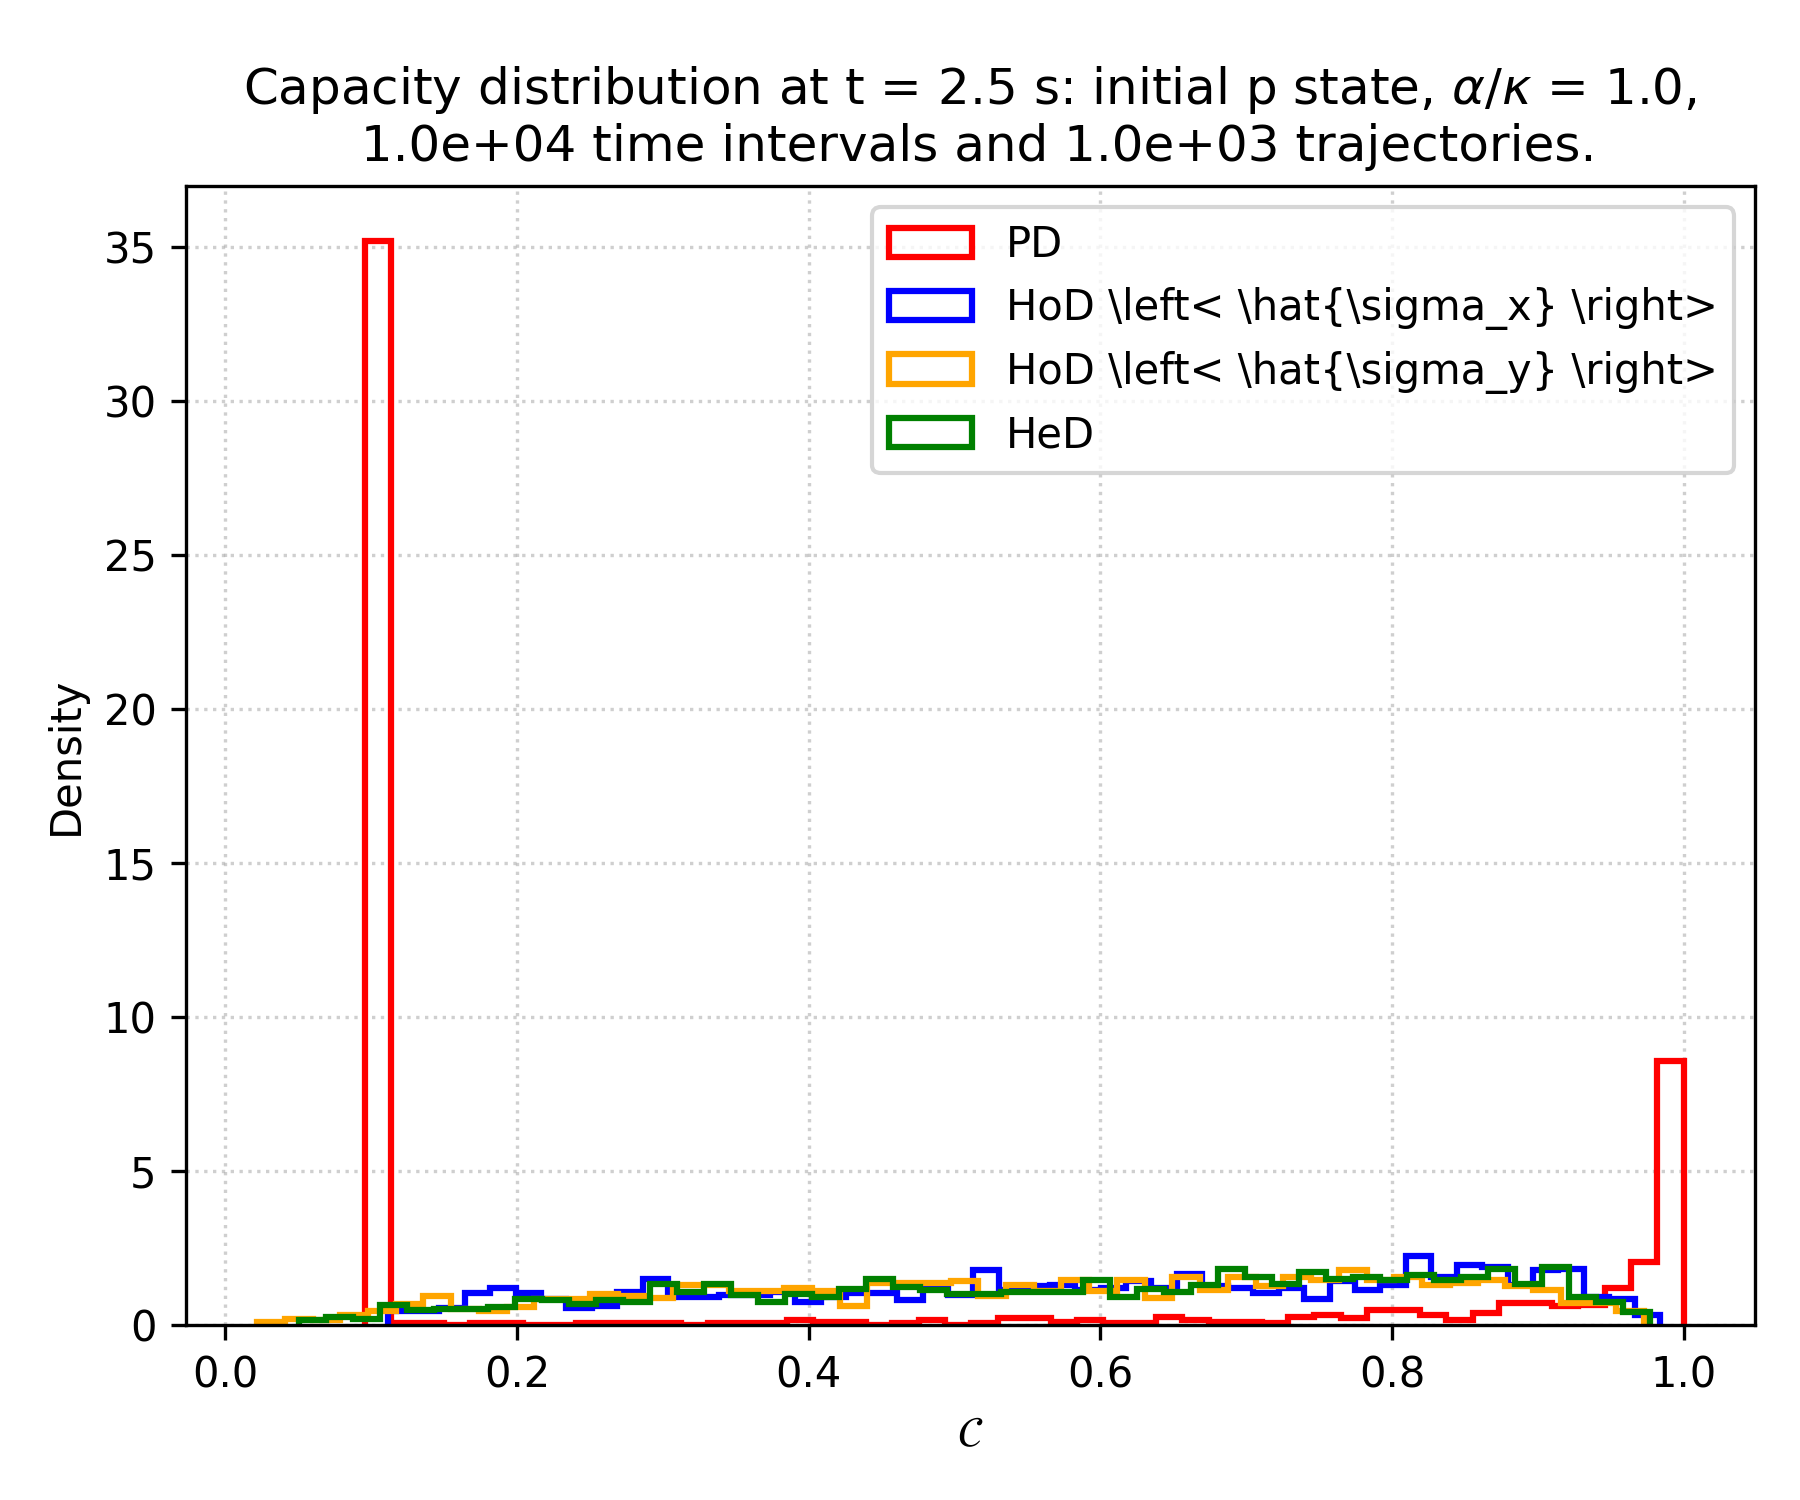
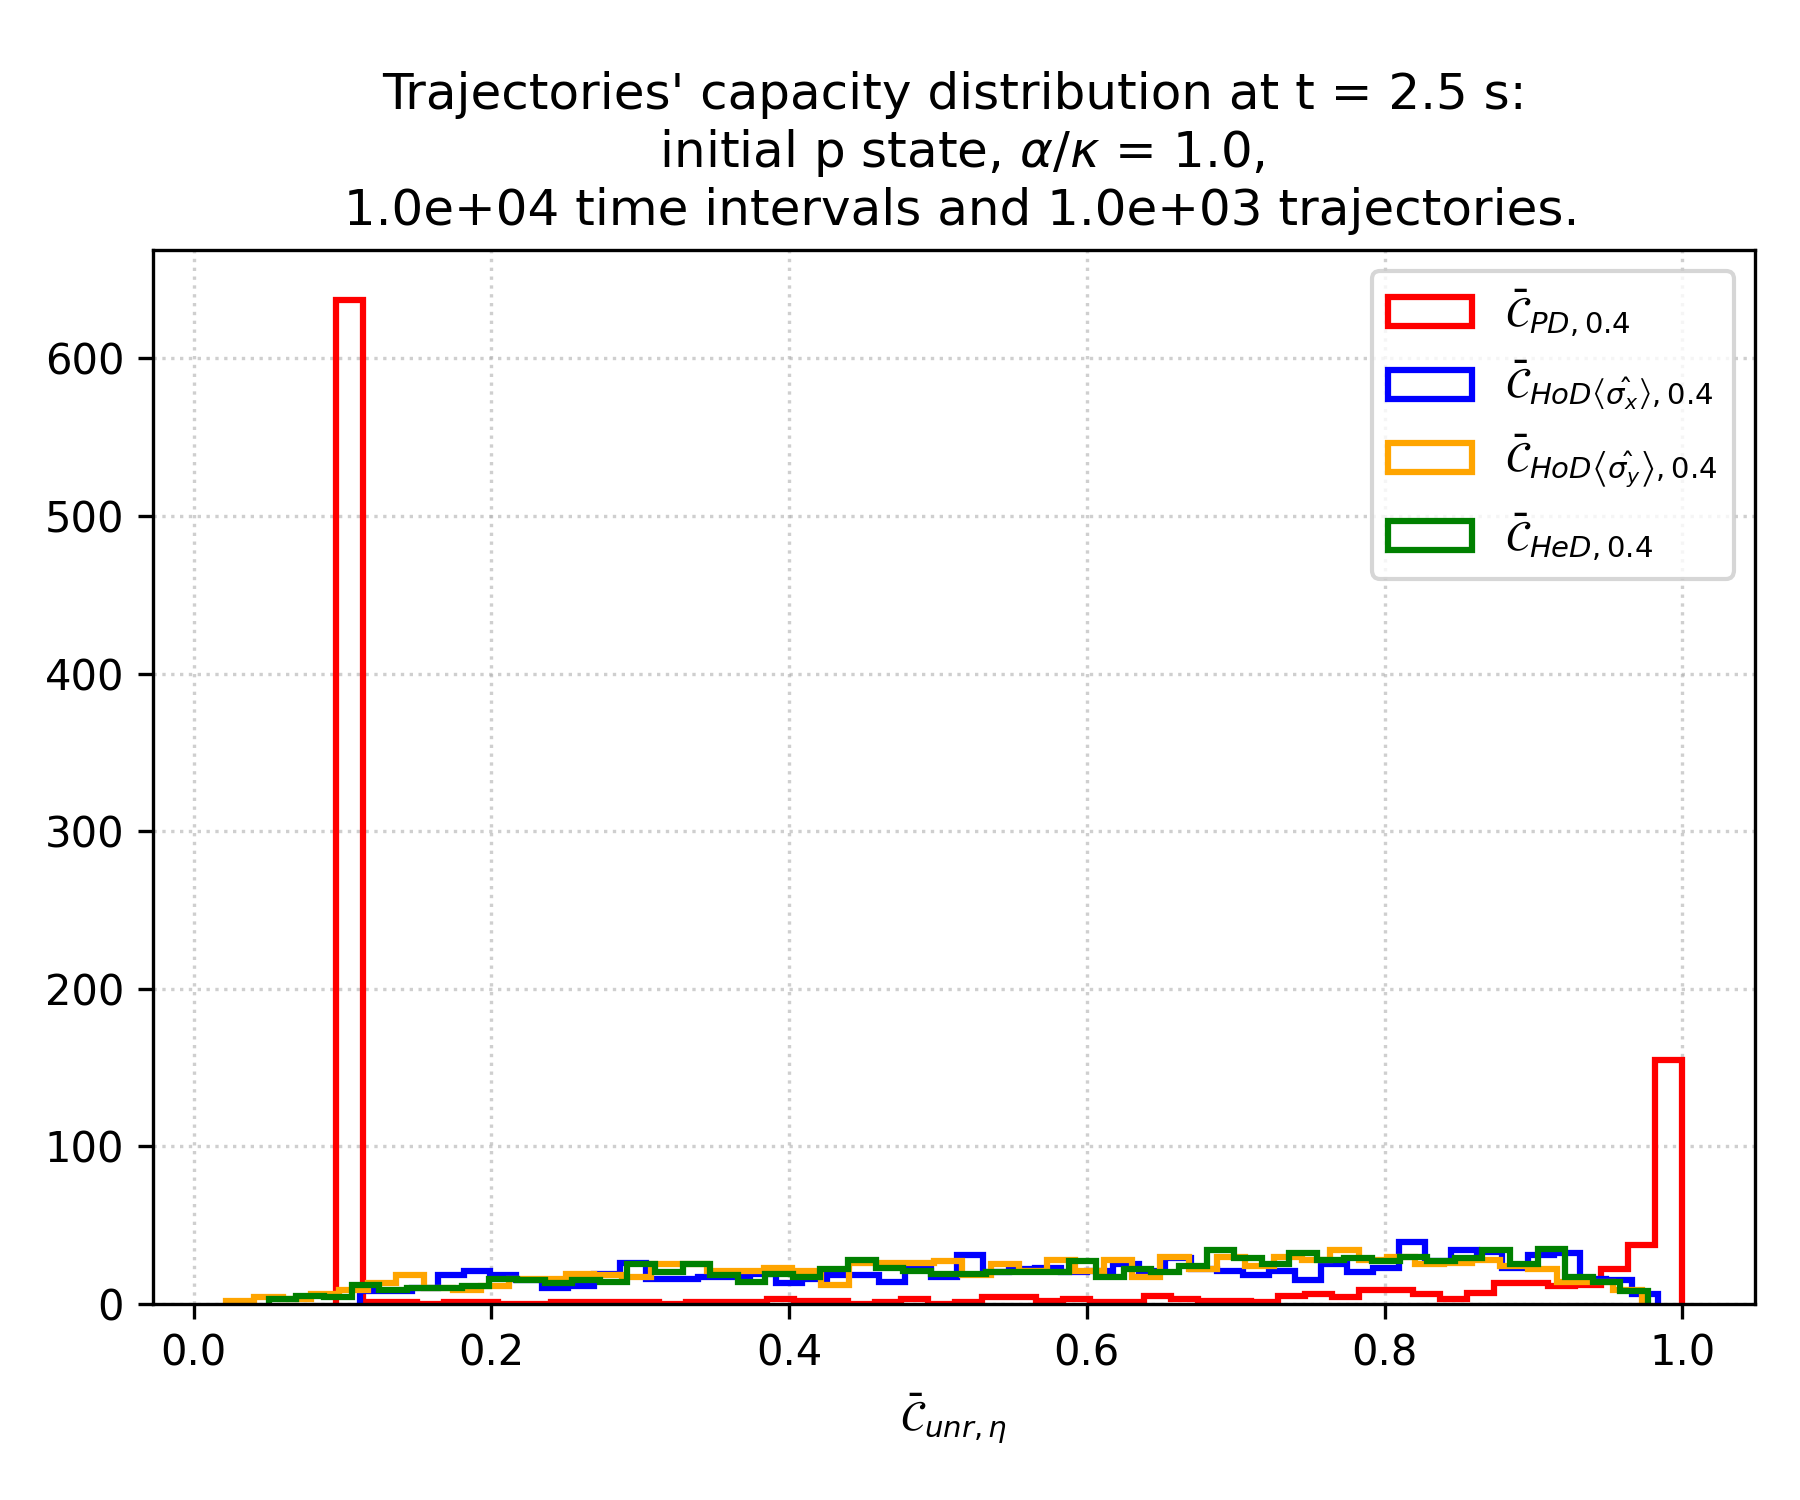
update

diff --git a/code/data_analysis.py b/code/data_analysis.py
@@ -75,7 +75,6 @@ def plot_mean_erg():
     ax.grid(True, linestyle = ':', alpha = 0.6)
     ax.set_ylim(0, 0.3) if (instate == "m" and alpha_over_kappa == 0.4 and eta == 1.0) else None
     ax.legend(loc = "upper right" if (instate == "p" and alpha_over_kappa == 1.0 and eta == 0.4) else "lower right", ncol = 2)
-    # ax.legend(loc = "lower right", ncol = 2)
 
     fig.suptitle(
             f"Mean values (erg): initial pure state, "  r"$\alpha / \kappa$" f" = {alpha_over_kappa},\n" f"{NUMBER_OF_TIMEINTERVALS : .1e} time intervals and{NUMBER_OF_TRAJECTORIES : .1e} trajectories."
@@ -350,12 +349,12 @@ def plot_histograms():
                 histtype = "step",
                 linewidth = 1.5,
                 color = unr_colors[j],
-                label = unr_labels[j],
-                density = True,
+                label = r"$\bar{\epsilon}_{" + unr_labels[j] + ", " + str(eta) + r"}$",
+                # density = True,
             )
-        ax.set_title(f"Ergotropy distribution at t = {t} s: initial " + instate + " state, "  r"$\alpha / \kappa$" f" = {alpha_over_kappa},\n" f"{NUMBER_OF_TIMEINTERVALS : .1e} time intervals and{NUMBER_OF_TRAJECTORIES : .1e} trajectories.")
-        ax.set_xlabel(r"$\epsilon$")
-        ax.set_ylabel("Density")
+        ax.set_title(f"Trajectories' ergotropy distribution at t = {t} s:\n initial " + instate + " state, "  r"$\alpha / \kappa$" f" = {alpha_over_kappa},\n" f"{NUMBER_OF_TIMEINTERVALS : .1e} time intervals and{NUMBER_OF_TRAJECTORIES : .1e} trajectories.")
+        ax.set_xlabel(r"$\bar{\epsilon}_{unr, \eta}$")
+        # ax.set_ylabel("Density")
         ax.grid(True, linestyle = ':', alpha = 0.6)
         ax.legend(loc = "upper right")
         plt.tight_layout()
@@ -372,27 +371,27 @@ def plot_histograms():
                 histtype = "step",
                 linewidth = 1.5,
                 color = unr_colors[j],
-                label = unr_labels[j],
-                density = True,
+                label = r"$\bar{\mathcal{C}}_{" + unr_labels[j] + ", " + str(eta) + r"}$",
+                # density = True,
             )
-        ax.set_title(f"Capacity distribution at t = {t} s: initial " + instate + " state, "  r"$\alpha / \kappa$" f" = {alpha_over_kappa},\n" f"{NUMBER_OF_TIMEINTERVALS : .1e} time intervals and{NUMBER_OF_TRAJECTORIES : .1e} trajectories.")
-        ax.set_xlabel(r"$\mathcal{C}$")
-        ax.set_ylabel("Density")
+        ax.set_title(f"Trajectories' capacity distribution at t = {t} s:\n initial " + instate + " state, "  r"$\alpha / \kappa$" f" = {alpha_over_kappa},\n" f"{NUMBER_OF_TIMEINTERVALS : .1e} time intervals and{NUMBER_OF_TRAJECTORIES : .1e} trajectories.")
+        ax.set_xlabel(r"$\bar{\mathcal{C}}_{unr, \eta}$")
+        # ax.set_ylabel("Density")
         ax.grid(True, linestyle = ':', alpha = 0.6)
-        ax.legend(loc = "upper right")
+        ax.legend(loc = "upper left" if (instate == "m" and eta == 1.0 and alpha_over_kappa == 0.4) else "upper right")
         plt.tight_layout()
         plt.savefig(plotsdir + "histo_cap_" + process + "_t" + str(t) + ".png", dpi = 300)
         plt.close(fig)
 
 def plot_ss_erg():
     """Plots the steady states (expectation value) of the ergotropy against the rate between the driving field intensity and the emission rate for every unravelling, plus E^ss_unc(t) and erg^ss_unc(t)"""
-    fig, ax = plt.subplots(figsize=(6,5))
+    fig, ax = plt.subplots(figsize=(7,5))
     etavalues = [0.1, 0.7]
     etalinestyle = [":", "-."]
     for j in range(len(unr)):
         for i in range(len(etavalues)):
             data = np.loadtxt(resultsdir + "ss_erg_" + unr[j] + "_eta" + str(etavalues[i]) + ".dat")
-            ax.plot(data[:,0], data[:,1], color = unr_colors[j], label = r"$\epsilon^{ss}_{" + unr_labels[j] + ", " + str((etavalues[i])) + "}", linestyle = etalinestyle[i])
+            ax.plot(data[:,0], data[:,1], color = unr_colors[j], label = r"$\epsilon^{ss}_{" + unr_labels[j] + ", " + str((etavalues[i])) + r"}$", linestyle = etalinestyle[i])
 
     data = np.loadtxt(resultsdir + "ss_erg_unc.dat")
     ax.plot(data[:,0], data[:,1], color = "black", label = r"$\epsilon^{ss}_{unc}$")
@@ -406,7 +405,7 @@ def plot_ss_erg():
     ax.legend(loc = "lower right", ncol = 4)
 
     plt.suptitle(
-        f"Steady state daemonic ergotropy for different unravellings as function of " r"$\alpha / \kappa$" f" with{NUMBER_OF_TIMEINTERVALS: .1e} time intervals and{NUMBER_OF_TRAJECTORIES : .1e} trajectories."
+        f"Steady state daemonic ergotropy for different unravellings as function of " r"$\alpha / \kappa$" f"\n with{NUMBER_OF_TIMEINTERVALS: .1e} time intervals and{NUMBER_OF_TRAJECTORIES : .1e} trajectories."
     )
 
 
@@ -416,24 +415,23 @@ def plot_ss_erg():
 
 def plot_ss_cap():
     """Plots the steady states (expectation value) of the capacity against the rate between the driving field intensity and the emission rate for every unravelling, plus E^ss_unc(t) and erg^ss_unc(t)"""
-    fig, ax = plt.subplots(figsize=(6,5))
+    fig, ax = plt.subplots(figsize=(7,5))
     etavalues = [0.1, 0.7]
     etalinestyle = [":", "-."]
     for j in range(len(unr)):
         for i in range(len(etavalues)):
             data = np.loadtxt(resultsdir + "ss_cap_" + unr[j] + "_eta" + str(etavalues[i]) + ".dat")
-            ax.plot(data[:,0], data[:,1], color = unr_colors[j], label = r"$\epsilon^{ss}_{" + unr_labels[j] + ", " + str((etavalues[i])) + "}", linestyle = etalinestyle[i])
+            ax.plot(data[:,0], data[:,1], color = unr_colors[j], label = r"$\epsilon^{ss}_{" + unr_labels[j] + ", " + str((etavalues[i])) + r"}$", linestyle = etalinestyle[i])
 
     data = np.loadtxt(resultsdir + "ss_cap_unc.dat")
     ax.plot(data[:,0], data[:,1], color = "black", label = r"$\epsilon^{ss}_{unc}$")
-
     ax.set_xlabel(r"$\kappa / \alpha$")
     ax.set_ylabel(r"$\bar{\epsilon}_{ss}$")
     ax.grid(True, linestyle = ":", alpha = 0.6)
-    ax.legend(loc = "lower right", ncol = 4)
+    ax.legend(loc = "lower left", ncol = 2)
 
     plt.suptitle(
-        f"Steady state daemonic capacity for different unravellings as function of " r"$\alpha / \kappa$" f" with{NUMBER_OF_TIMEINTERVALS: .1e} time intervals and{NUMBER_OF_TRAJECTORIES : .1e} trajectories."
+        f"Steady state daemonic capacity for different unravellings as function of " r"$\alpha / \kappa$" f"\n with{NUMBER_OF_TIMEINTERVALS: .1e} time intervals and{NUMBER_OF_TRAJECTORIES : .1e} trajectories."
     )
 
     plt.tight_layout()
